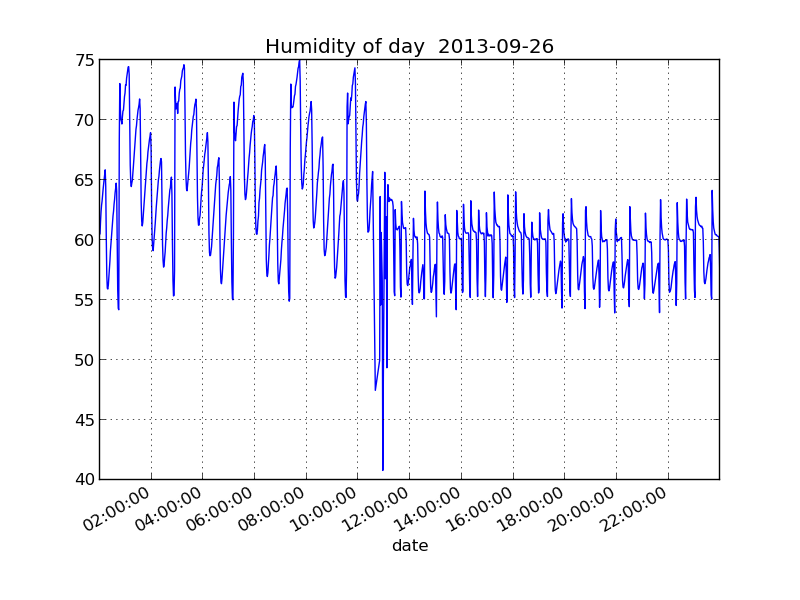
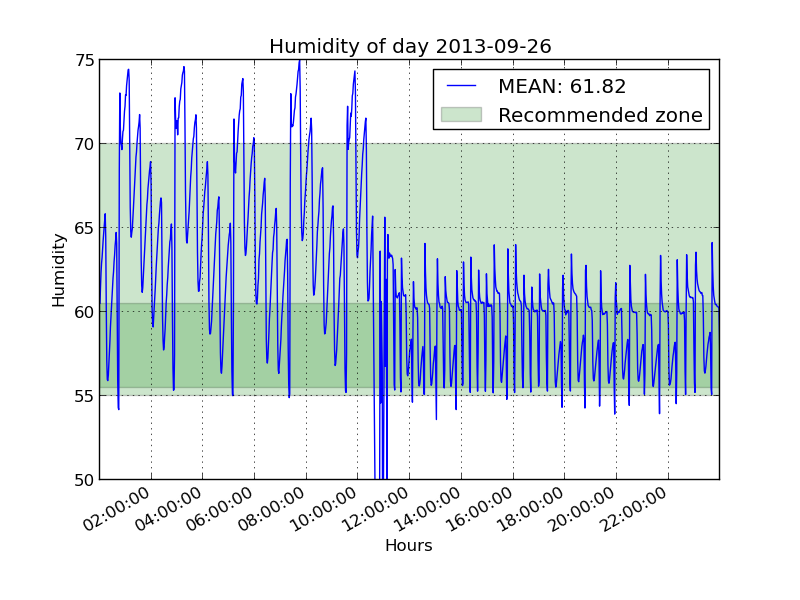
All the functions changed to works with Pandas libarry

diff --git a/Raspberry_files/charts.py b/Raspberry_files/charts.py
@@ -13,8 +13,8 @@ import pandas.io.sql as psql
 MAD=pytz.timezone('Europe/Madrid')
 datetime_format = '%Y-%m-%d %H:%M:%S'
 
-temp_param_MAX = 37.3
-temp_param_MIN = 37.2
+temp_param_MAX = 37.5
+temp_param_MIN = 37.4
 temp_MIN = 37.0
 temp_MAX = 38.0
 humi_param_MAX = 60.5
@@ -75,110 +75,83 @@ def extract_data_from_DB(datetime_format, db_local_path, db_utils_dict):
 	    dataframe_sqlite_MAD = dataframe_sqlite_UTC.tz_convert(MAD)
 	return dataframe_sqlite_MAD
 
-def save_humi_from_dataframe_by_day(dataframe, string_day):
-	plt.title('Humidity of day  %s' % string_day)
+def save_humi_from_dataframe_by_day(dataframe, string_day, humi_param_MAX, humi_param_MIN, humi_MAX, humi_MIN, humi_limit_SUP, humi_limit_INF):
+	plt.title('Humidity of day %s' % string_day)
 	today_plot = dataframe.humi[string_day]
-	today_plot.tail(100).plot()
-	#plt.savefig('humi_%s.png' % string_day, orientation='landscape')
-	plt.show()
+	plt.ylim(humi_limit_INF, humi_limit_SUP)
+	today_plot.plot()
+	plt.axhspan(humi_param_MIN, humi_param_MAX, facecolor='g', alpha=0.2)
+	plt.axhspan(humi_MIN, humi_MAX, facecolor='g', alpha=0.2)
+ 	today_plot_mean = today_plot.mean()
+ 	legend( ('MEAN: %.2f' % today_plot_mean, 'Recommended zone') , loc = 'upper right')
+ 	plt.ylabel('Humidity')
+	plt.xlabel('Hours')
+	plt.savefig('humi_%s.png' % string_day, orientation='landscape')
 	plt.close()
 
 def save_temp_from_dataframe_by_day(dataframe, string_day, temp_param_MAX, temp_param_MIN, temp_MAX, temp_MIN, temp_limit_SUP, temp_limit_INF):
-	plt.title('Temperature of day  %s' % string_day)
+	plt.title('Temperature of day %s' % string_day)
 	today_plot = dataframe.TEMP_LOG[string_day]
 	plt.ylim(temp_limit_INF, temp_limit_SUP)
  	y=np.arange(temp_limit_INF, temp_limit_SUP, 0.2)
+ 	plt.grid()
  	plt.yticks(y)
-	today_plot.tail(600).plot()
-	#today_plot_mean = today_plot.tail(100).mean()
-	today_plot_last = today_plot.tail(1).mean()
-	legend( (today_plot_last, 'SHT1x') , loc = 'upper left')
-	#print "MEAN: ", today_plot_mean
+	today_plot.plot()
+	plt.axhspan(temp_param_MIN, temp_param_MAX, facecolor='g', alpha=0.2)
+	plt.axhspan(temp_MIN, temp_MAX, facecolor='g', alpha=0.2)
+	today_plot_mean = today_plot.mean()
+	legend( ('MEAN: %.2f' % today_plot_mean, 'Recommended zone') , loc = 'upper right')
 	plt.savefig('temp_%s.png' % string_day, orientation='landscape')
-	#plt.show()
 	plt.close()
 
-# def generate_comparing_temperature_with_dates_and_save(thermo_dates, thermo_temps, SHT1x_dates, SHT1x_temps, temp_param_MAX, temp_param_MIN, temp_MAX, temp_MIN, temp_limit_SUP, temp_limit_INF):
-# 	plt.plot(thermo_dates, thermo_temps, 'r', SHT1x_dates, SHT1x_temps,)
-# 	plt.ylim(temp_limit_INF, temp_limit_SUP)
-# 	y=np.arange(temp_limit_INF, temp_limit_SUP, 0.5)
-# 	plt.grid()
-# 	plt.gcf().autofmt_xdate()
-# 	legend( ('thermo', 'SHT1x') ,
-#         loc = 'upper right')
-# 	plt.savefig('thermo_comparation.png', orientation='landscape')
-# 	#plt.show()
-# 	plt.close()
+def comparing_temps_from_dataframe_by_day(dataframe_thermo, dataframe_SHT1x, string_day, temp_param_MAX, temp_param_MIN, temp_MAX, temp_MIN, temp_limit_SUP, temp_limit_INF):
+	plt.title('Comparation of the temperatures of day %s' % string_day)
+	today_plot_thermo = dataframe_thermo.TEMP_LOG[string_day]
+	today_plot_SHT1x = dataframe_SHT1x.temp[string_day]
+	plt.ylim(temp_limit_INF, temp_limit_SUP)
+ 	y=np.arange(temp_limit_INF, temp_limit_SUP, 0.2)
+ 	plt.grid()
+ 	plt.yticks(y)
+	today_plot_thermo.plot()
+	today_plot_SHT1x.plot()
+	plt.axhspan(temp_param_MIN, temp_param_MAX, facecolor='g', alpha=0.2)
+	plt.axhspan(temp_MIN, temp_MAX, facecolor='g', alpha=0.2)
+	legend( ('thermo', 'SHT1x', 'Recommended zone') , loc = 'upper right')
+	plt.savefig('comparing_temps_%s.png' % string_day, orientation='landscape')
+	plt.close()
 
-# def generate_thermo_plot_and_save(thermo_dates, thermo_temps, thermo_status, temp_param_MAX, temp_param_MIN, temp_MAX, temp_MIN, temp_limit_SUP, temp_limit_INF):
-# 	plt.title('Data from thermometer')
-# 	# First subplot
-# 	# plt.subplot(2, 1, 1)
-# 	# yticks = ['BAD', 'GOOD']
-# 	# y=[0,1]
-# 	# plt.yticks(y,yticks)
-# 	# plt.plot(thermo_dates,thermo_status)
-# 	# plt.ylim(-0.1, 1.1)
-# 	# Second subplot
-# 	#plt.subplot(2, 1, 2)
-# 	plot_date(thermo_dates, thermo_temps, 'b-', tz=MAD)
-# 	plt.ylim(temp_limit_INF, temp_limit_SUP)
-# 	y=np.arange(temp_limit_INF, temp_limit_SUP, 0.5)
-# 	plt.grid()
-# 	plt.yticks(y)
-# 	plt.axhspan(temp_MIN, temp_MAX, facecolor='r', alpha=0.5)
-# 	plt.axhspan(temp_param_MIN, temp_param_MAX, facecolor='m', alpha=0.2)
-# 	plt.gcf().autofmt_xdate()
-# 	plt.xlabel('time')
-# 	plt.ylabel('Temperature')
-# 	plt.savefig('thermo.png', orientation='landscape')
-# 	#plt.show()
-# 	plt.close()
+def comparing_humi_temps_from_dataframe_by_day(dataframe_thermo, dataframe_SHT1x, string_day, temp_param_MAX, temp_param_MIN, temp_MAX, temp_MIN, temp_limit_SUP, temp_limit_INF, humi_limit_SUP, humi_limit_INF):
+	plt.title('Correlation between temperature and humidity')
+ 	# First subplot
+ 	plt.subplot(2, 1, 1)
+	today_plot_thermo = dataframe_thermo.TEMP_LOG[string_day]
+ 	plt.ylim(temp_limit_INF, temp_limit_SUP)
+ 	y=np.arange(temp_limit_INF, temp_limit_SUP, 0.2)
+ 	plt.grid()
+ 	plt.yticks(y)
+	today_plot_thermo.plot()
+	plt.axhspan(temp_param_MIN, temp_param_MAX, facecolor='g', alpha=0.2)
+	plt.axhspan(temp_MIN, temp_MAX, facecolor='g', alpha=0.2)
+	# Second subplot
+ 	plt.subplot(2, 1, 2)
+	today_plot_SHT1x = dataframe_SHT1x.humi[string_day]
+	plt.ylim(humi_limit_INF, humi_limit_SUP)
+ 	plt.grid()
+	today_plot_SHT1x.plot()
+	plt.axhspan(humi_param_MIN, humi_param_MAX, facecolor='g', alpha=0.2)
+	plt.axhspan(humi_MIN, humi_MAX, facecolor='g', alpha=0.2)
+	#legend( ('thermo', 'SHT1x', 'Recommended zone') , loc = 'upper right')
+	plt.savefig('comparing_humi_temps_%s.png' % string_day, orientation='landscape')
+	plt.close()
 
-# def generate_SHT1x_plot_and_save(SHT1x_dates, SHT1x_temps, SHT1x_humis, humi_param_MAX, humi_param_MIN, humi_MAX, humi_MIN, temp_limit_SUP, temp_limit_INF):
-# 	plt.title('Data from SHT1x')
-# 	# First subplot
-# 	plt.subplot(2, 1, 1)
-# 	plot_date(SHT1x_dates, SHT1x_humis, 'b-', tz=MAD)
-# 	plt.axhspan(humi_MIN, humi_MAX, facecolor='r', alpha=0.5)
-# 	plt.axhspan(humi_param_MIN, humi_param_MAX, facecolor='m', alpha=0.2)
-# 	plt.ylabel('Humidity')
-# 	# Second subplot
-# 	plt.subplot(2, 1, 2)
-# 	plot_date(SHT1x_dates, SHT1x_temps, 'b-', tz=MAD)
-# 	plt.ylim(temp_limit_INF, temp_limit_SUP)
-# 	y=np.arange(temp_limit_INF, temp_limit_SUP, 0.5)
-# 	plt.grid()
-# 	plt.axhspan(temp_MIN, temp_MAX, facecolor='r', alpha=0.5)
-# 	plt.axhspan(temp_param_MIN, temp_param_MAX, facecolor='m', alpha=0.2)
-# 	plt.gcf().autofmt_xdate()
-# 	plt.xlabel('time')
-# 	plt.ylabel('Temperature')	
-# 	plt.savefig('SHT1x.png', orientation='landscape')
-# 	#plt.show()
-# 	plt.close()
-
-# retrieve_DBs()
-# thermo_dates, thermo_temps, thermo_status = extract_thermo_data(datetime_format, local_path_thermodb, thermodb_utils_dict)
-# SHT1x_dates, SHT1x_temps, SHT1x_humis = extract_SHT1x_data(datetime_format, local_path_SHT1xdb, SHT1xdb_utils_dict)
-# generate_comparing_temperature_with_dates_and_save(thermo_dates, thermo_temps, SHT1x_dates, SHT1x_temps, temp_param_MAX, temp_param_MIN, temp_MAX, temp_param_MIN, 40, 35)
-# generate_thermo_plot_and_save(thermo_dates, thermo_temps, thermo_status, temp_param_MAX, temp_param_MIN, temp_MAX, temp_MIN, 40, 35)
-# generate_SHT1x_plot_and_save(SHT1x_dates, SHT1x_temps, SHT1x_humis, humi_param_MAX, humi_param_MIN, humi_MAX, humi_MIN, 40, 35)
-
-# def retrieve_DB():
-# 	with sqlite3.connect('/home/weblord/Desktop/Incubator/Raspberry_files/SHT1x/SHT1x.db', detect_types=sqlite3.PARSE_DECLTYPES) as conn:
-# 	    df_sqlite = psql.frame_query('select * from READ', con=conn)    
-# 	    print 'loaded dataframe from sqlite', len(df_sqlite)
-# 	    df_sqlite.index = pd.to_datetime(df_sqlite.pop('date'))
-# 	    today_data =  df_sqlite['2013-09-26']
-# 	    today_data.plot()
-# 	    plt.show()
 
 retrieve_DBs()
 SHT1x_dataframe = extract_data_from_DB(datetime_format, local_path_SHT1xdb, SHT1xdb_utils_dict)
 thermo_dataframe = extract_data_from_DB(datetime_format, local_path_thermodb, thermodb_utils_dict)
-save_humi_from_dataframe_by_day(SHT1x_dataframe, '2013-09-27')
-save_temp_from_dataframe_by_day(thermo_dataframe, '2013-09-27', temp_param_MAX, temp_param_MIN, temp_MAX, temp_param_MIN, 41, 36)
+save_humi_from_dataframe_by_day(SHT1x_dataframe, '2013-09-27', humi_param_MAX, humi_param_MIN, humi_MAX, humi_MIN, 75, 50)
+save_temp_from_dataframe_by_day(thermo_dataframe, '2013-09-27', temp_param_MAX, temp_param_MIN, temp_MAX, temp_MIN, 39, 36.8)
+comparing_temps_from_dataframe_by_day(thermo_dataframe, SHT1x_dataframe, '2013-09-27', temp_param_MAX, temp_param_MIN, temp_MAX, temp_MIN, 39, 36.8)
+comparing_humi_temps_from_dataframe_by_day(thermo_dataframe, SHT1x_dataframe, '2013-09-27', temp_param_MAX, temp_param_MIN, temp_MAX, temp_MIN, 39, 36.8, 75, 50)
 #print SHT1x_dataframe
 #print thermo_dataframe
 
